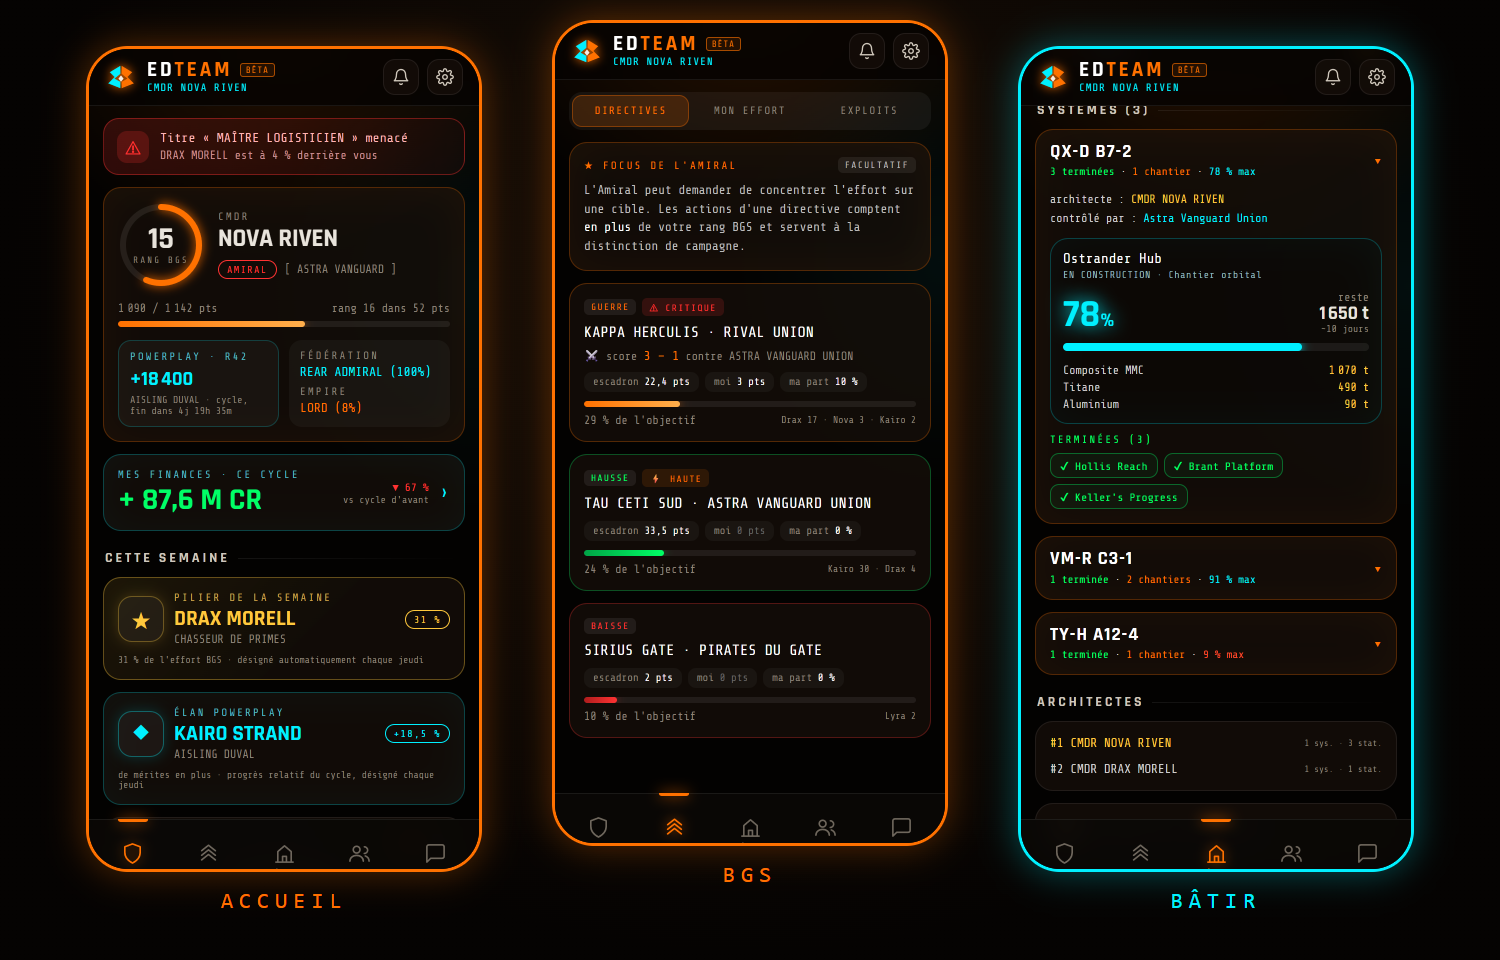
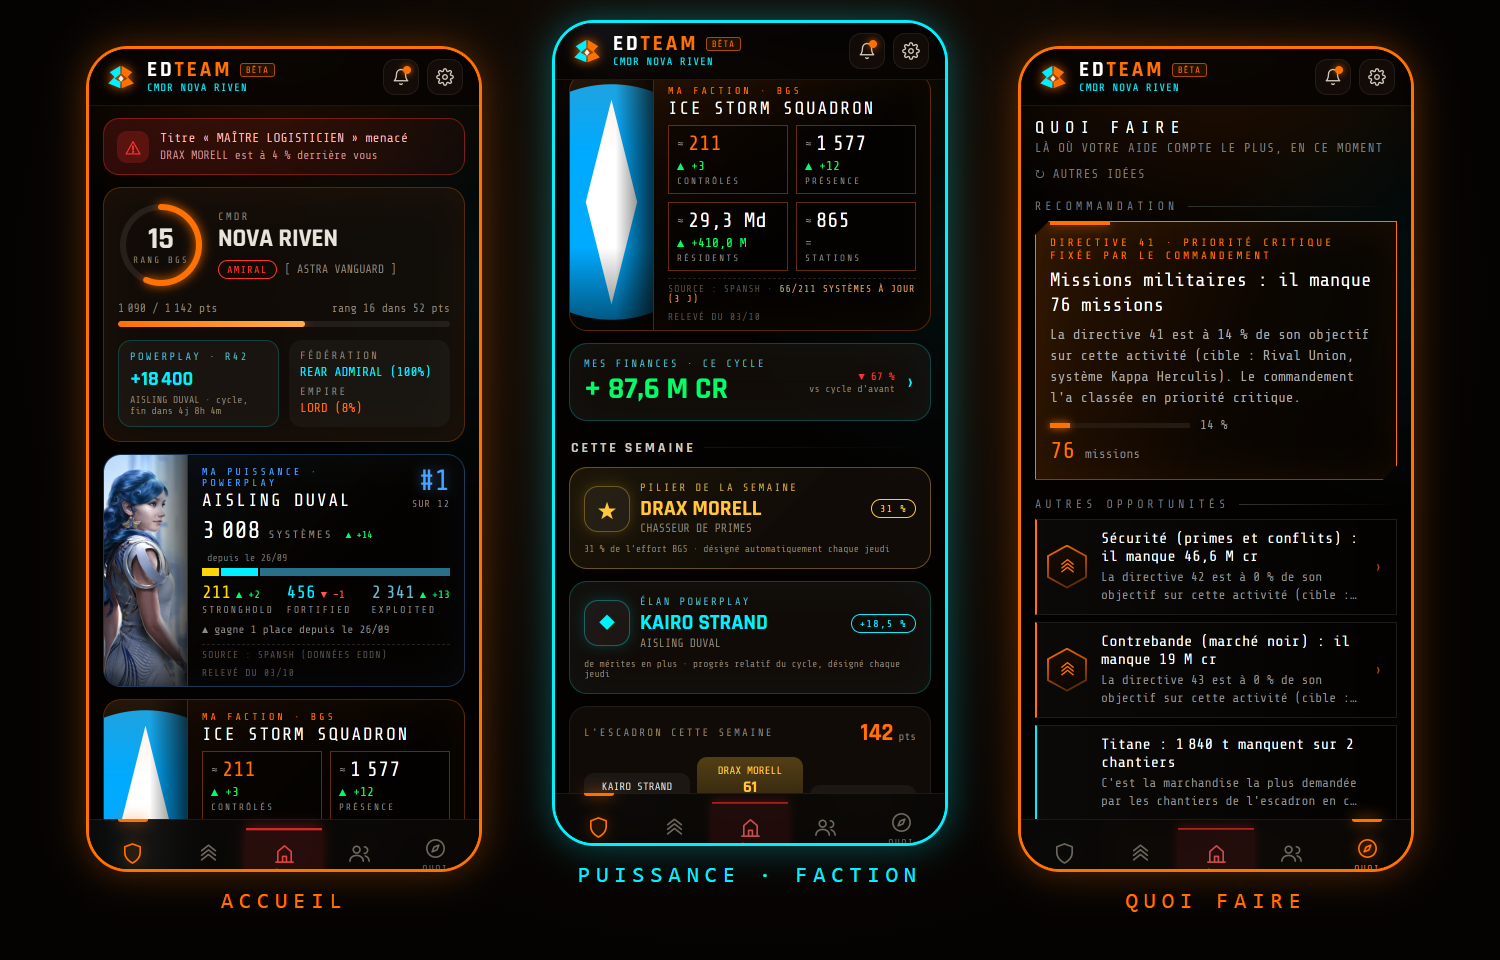
Mobile : Ma puissance et Ma faction a l'accueil (contour arrondi), bande Quoi faire retiree de l'accueil ; presentation : module Quoi faire, QG avec les 3 cartes, captures mises a jour

diff --git a/presentation.html b/presentation.html
@@ -426,6 +426,7 @@
             <div class="scene">
                 <div class="liste" id="liste">
                 <button class="module" data-p="commander" data-m="qg" data-for="solo squad officier"><span>Quartier général</span><span class="pour">POUR VOUS</span></button>
+                <button class="module" data-p="commander" data-m="qf" data-for="solo squad officier"><span>Quoi faire</span><span class="pour">POUR VOUS</span></button>
                 <button class="module" data-p="commander" data-m="bgs" data-for="squad officier"><span>BGS tactique</span><span class="pour">POUR VOUS</span></button>
                 <button class="module" data-p="commander" data-m="pp" data-for="solo squad officier"><span>Powerplay 2.0</span><span class="pour">POUR VOUS</span></button>
                 <button class="module" data-p="commander" data-m="diplo" data-for="squad officier"><span>Diplomatie & renseignement</span><span class="pour">POUR VOUS</span></button>
@@ -443,9 +444,14 @@
                 </div>
                 <div class="detail" id="detail">
                 <article class="panel" id="module-qg" data-p="commander" data-m="qg">
-                    <div class="ecran-d"><div class="cadre-d"><img class="on" data-i="0" src="images/qg.png" alt="Quartier général"></div></div>
-                    <span class="kick">// MODULE 01 : SUPERVISION</span><h3>VISION STRATÉGIQUE</h3><p>Votre <strong>Quartier Général</strong> résume votre carrière d'un coup d'œil : rangs Powerplay, BGS, Fédération et auxiliaires, avec leur progression. Le <strong>Pilier de la semaine</strong> et l'<strong>Élan Powerplay</strong> de l'escadron sont mis à l'honneur, et les <strong>chiffres clés</strong> (renseignement, points BGS cumulés, mérites Powerplay, colonisation) tiennent sur un seul écran.</p><p>Le <strong>Journal Tactique</strong> diffuse en direct les directives, les distinctions et le bilan hebdomadaire du réseau ; les actualités Galnet et EDNews de l'escadron sont à un clic. Tout ce dont un commandant a besoin, sur un terminal unique.</p>
+                    <div class="ecran-d"><div class="cadre-d"><img class="on" data-i="0" src="images/qg.png" alt="Quartier général (écran 1)"><img class="" data-i="1" src="images/puissance-faction.png" alt="Ma puissance, Ma faction et Quoi faire (écran 2)" loading="lazy"></div><div class="vignettes"><button class="on" data-i="0" style="background-image:url('images/qg.png')" aria-label="Écran 1"></button><button class="" data-i="1" style="background-image:url('images/puissance-faction.png')" aria-label="Écran 2"></button></div></div>
+                    <span class="kick">// MODULE 01 : SUPERVISION</span><h3>VISION STRATÉGIQUE</h3><p>Votre <strong>Quartier Général</strong> résume votre carrière d'un coup d'œil : rangs Powerplay, BGS, Fédération et auxiliaires dans l'en-tête (un clic ouvre le détail, sur toutes les pages), le <strong>nom de votre escadron</strong> et vos grades. En tête de page, trois cartes : <strong>Ma puissance</strong> (le portrait de votre puissance, son classement parmi les douze et la répartition de ses systèmes), <strong>Ma faction</strong> (le logo de votre escadron, déposé par l'Amiral, et les chiffres de votre faction) et <strong>Quoi faire</strong>.</p><p>Le <strong>Pilier de la semaine</strong> et l'<strong>Élan Powerplay</strong> sont mis à l'honneur, les <strong>chiffres clés</strong> tiennent sur un seul écran, et le <strong>Journal Tactique</strong> diffuse en direct les directives, les distinctions et le bilan du réseau. Chaque jeudi, une fenêtre vous présente la <strong>nouvelle édition d'EDNews</strong> de votre escadron.</p><p class="note-sobre" style="font-size:.85em;color:#8a9;">Les chiffres de puissance et de faction viennent de la base communautaire Spansh, relevée chaque jour : ils peuvent avoir quelques jours de retard sur le jeu.</p>
                 </article>
+                <article class="panel" id="module-qf" data-p="commander" data-m="qf">
+                    <div class="ecran-d"><div class="cadre-d"><img class="on" data-i="0" src="images/quoi-faire.png" alt="Quoi faire : recommandations" loading="lazy"></div></div>
+                    <span class="kick">// MODULE 11 : QUOI FAIRE</span><h3>VOUS NE SAVEZ PAS QUOI FAIRE EN VOUS CONNECTANT ?</h3><p>Une <strong>recommandation</strong> vous attend à l'ouverture : l'activité où votre aide compte le plus en ce moment, d'après les directives de votre escadron (à priorité égale, celle qui est le plus en retard), les chantiers de colonisation, votre rang BGS et vos mérites Powerplay.</p><p>Chaque idée mène directement au bon écran. Rien n'est obligatoire, et les idées s'adaptent à <strong>votre style de jeu</strong>, que vous pouvez changer. Disponible aussi sur le compagnon mobile.</p>
+                </article>
+
                 <article class="panel" id="module-bgs" data-p="commander" data-m="bgs">
                     <div class="ecran-d"><div class="cadre-d"><img class="on" data-i="0" src="images/ordres.png" alt="BGS tactique" loading="lazy"></div></div>
                     <span class="kick">// MODULE 02 : BGS TACTIQUE</span><h3>FRAPPEZ OÙ ÇA FAIT MAL</h3><p>Ne demandez plus sur le Discord <em>« Où est-ce qu'on se bat aujourd'hui ? »</em>. Tout tient sur <strong>une seule page</strong> : votre engagement (rang, points, prochain rang), votre progression sur les 8 dernières semaines, la semaine de l'escadron avec son podium, et le mur des spécialistes.</p><p>Le <strong>Focus de l'Amiral</strong> liste les directives (Guerre, Élection, Hausse, Baisse) avec leur avancement, votre part d'impact et le score du conflit en direct. Il est facultatif : sans directive, chaque effort compte déjà pour votre rang BGS. Le <strong>journal des exploits</strong> détaille chaque action.</p>
@@ -1100,7 +1106,7 @@
     /* ---------- Piliers, modules, profils (les textes sont dans le HTML : ce code ne fait qu'afficher / masquer) ---------- */
     (function () {
         const PILIERS = [{"id":"commander","c":"#00F0FF","g":"rgba(0,240,255,.12)"},{"id":"construire","c":"#FF7100","g":"rgba(255,113,0,.12)"},{"id":"progresser","c":"#FFD700","g":"rgba(255,215,0,.10)"},{"id":"connecte","c":"#00FF66","g":"rgba(0,255,102,.10)"}];
-        const MODULES = [{"id":"qg","p":"commander","pour":["solo","squad","officier"]},{"id":"bgs","p":"commander","pour":["squad","officier"]},{"id":"pp","p":"commander","pour":["solo","squad","officier"]},{"id":"diplo","p":"commander","pour":["squad","officier"]},{"id":"esc","p":"commander","pour":["squad","officier"]},{"id":"colo","p":"construire","pour":["solo","squad","officier"]},{"id":"budget","p":"construire","pour":["solo","squad","officier"]},{"id":"plaques","p":"progresser","pour":["squad","officier"]},{"id":"spe","p":"progresser","pour":["squad","officier"]},{"id":"pilier","p":"progresser","pour":["squad","officier"]},{"id":"elan","p":"progresser","pour":["squad","officier"]},{"id":"force","p":"progresser","pour":["squad","officier"]},{"id":"rang","p":"progresser","pour":["squad","officier"]},{"id":"mobile","p":"connecte","pour":["solo","squad","officier"]},{"id":"covas","p":"connecte","pour":["squad","officier"]}];
+        const MODULES = [{"id":"qg","p":"commander","pour":["solo","squad","officier"]},{"id":"qf","p":"commander","pour":["solo","squad","officier"]},{"id":"bgs","p":"commander","pour":["squad","officier"]},{"id":"pp","p":"commander","pour":["solo","squad","officier"]},{"id":"diplo","p":"commander","pour":["squad","officier"]},{"id":"esc","p":"commander","pour":["squad","officier"]},{"id":"colo","p":"construire","pour":["solo","squad","officier"]},{"id":"budget","p":"construire","pour":["solo","squad","officier"]},{"id":"plaques","p":"progresser","pour":["squad","officier"]},{"id":"spe","p":"progresser","pour":["squad","officier"]},{"id":"pilier","p":"progresser","pour":["squad","officier"]},{"id":"elan","p":"progresser","pour":["squad","officier"]},{"id":"force","p":"progresser","pour":["squad","officier"]},{"id":"rang","p":"progresser","pour":["squad","officier"]},{"id":"mobile","p":"connecte","pour":["solo","squad","officier"]},{"id":"covas","p":"connecte","pour":["squad","officier"]}];
         let pilier = 'commander', mod = 'qg', vue = 'tout';
         const $ = id => document.getElementById(id);
         const visible = m => vue === 'tout' || m.pour.indexOf(vue) >= 0;

diff --git a/qgsuivi.js b/qgsuivi.js
@@ -1,7 +1,7 @@
 // QG : cartes « MA PUISSANCE » (Powerplay) et « MA FACTION » (BGS). Une seule lecture serveur : rpc('ma_puissance_et_faction') (script SQL 45),
 // mise en memoire 30 minutes (les donnees ne changent qu'une fois par jour : releve quotidien de Spansh, cote serveur).
 // Limites assumees : pas de points par puissance (aucune source publique), pas de systemes « contestes » ; variations seulement apres ~7 jours d'historique.
-// Les emblemes sont des monogrammes crees pour le site : aucune image de Frontier.
+// Les monogrammes (repli sans portrait) sont crees pour le site ; les portraits des Powers sont des images de Frontier (mention au pied de page).
 (function () {
     'use strict';
     const S = window.QGSuivi = {};
@@ -68,6 +68,8 @@
 #banner-gazette:hover{border-color:#00F0FF!important;background:linear-gradient(135deg,rgba(0,240,255,.34),rgba(0,0,0,.4))!important;box-shadow:0 0 14px rgba(0,240,255,.45)}
 #banner-gazette:active{background:linear-gradient(135deg,rgba(0,240,255,.5),rgba(0,0,0,.35))!important}
 .qs-ap{font-size:.6em;color:#8a8a8a;margin-right:4px;vertical-align:.25em}
+#m-suivi .qs-carte{clip-path:none;border-radius:18px;overflow:hidden;border-color:color-mix(in srgb,var(--c) 30%,transparent);box-shadow:inset 0 0 40px color-mix(in srgb,var(--c) 5%,transparent)}#m-suivi .qs-carte:before,#m-suivi .qs-carte:after{display:none}#m-suivi .qs-portrait{border-right-color:color-mix(in srgb,var(--c) 30%,transparent)}
+.qs-fm .qs-tuiles{grid-template-columns:repeat(2,minmax(0,1fr))}.qs-fm .qs-src{margin-top:0}.qs-fm .qs-src span{white-space:normal!important}
 .qs-t.cle .v{color:var(--c)}
 .qs-t .qs-v{display:block;margin:3px 0 0}
 .qs-carte.qs-pf{flex-direction:row;gap:0;padding:0;align-items:stretch}
@@ -146,6 +148,16 @@
         return '<span style="white-space:nowrap">SOURCE : SPANSH' + frais + '</span><span style="white-space:nowrap">RELEVÉ DU ' + esc(jj(f.releve_le)) + '</span>';
     }
 
+    // Carte « Ma faction » du compagnon mobile : logo en colonne a gauche (comme le portrait), nom, 4 tuiles, source
+    function carteFactionMobile(f, logo) {
+        const url = logo && logo.chemin ? logoUrl(logo) : '';
+        const hex = url ? '' : '<div class="qs-hx">' + ICONE_FACTION + '</div>';
+        const corps = '<div class="qs-cap">' + hex + '<div style="min-width:0;"><div class="qs-k">MA FACTION · BGS</div><div class="qs-n">' + esc(String(f.nom).toUpperCase()) + '</div></div></div>'
+            + statsFaction(f) + '<div class="qs-src">' + ligneSourceFaction(f) + '</div>';
+        if (!url) return '<div class="qs-carte qs-fm" style="--c:#FF7100;">' + corps + '</div>';
+        return '<div class="qs-carte qs-pf qs-fm" style="--c:#FF7100;"><div class="qs-portrait"><img src="' + esc(url) + '" alt="Logo de l’escadron" loading="lazy" style="object-position:center;"></div><div class="qs-corps">' + corps + '</div></div>';
+    }
+
     async function charger() {
         const now = Date.now();
         try { const s = JSON.parse(sessionStorage.getItem('edteam_suivi_cache') || 'null'); if (s && now - s.ts < DUREE && s.d && ('peut_logo' in s.d)) return s.d; } catch (e) {}
@@ -219,6 +231,21 @@
                 elF.style.display = membre ? 'grid' : 'none';
             }
         } catch (e) { console.error('Suivi puissance / faction :', e); }
+    };
+    // Compagnon mobile : les deux cartes empilees (memes donnees, meme mise en memoire 30 min que le PC)
+    S.monterMobile = async function (idZone) {
+        injecterStyle();
+        const el = document.getElementById(idZone);
+        if (!el) return;
+        try {
+            const d = await charger();
+            const moi = (typeof profilCommandant !== 'undefined' && profilCommandant) ? profilCommandant : {};
+            const membre = !!(d && d.acces && (d.faction || (moi.escadron_id && String(moi.escadron_id).toUpperCase() !== 'INDEPENDANT')));
+            let h = '';
+            if (d && d.puissance) h += cartePuissance(d.puissance);
+            if (membre && d && d.faction) h += carteFactionMobile(d.faction, d.logo);
+            el.innerHTML = h; el.style.display = h ? 'flex' : 'none';
+        } catch (e) { console.error('Suivi puissance / faction (mobile) :', e); }
     };
     injecterStyle();
 })();

diff --git a/mobile.html b/mobile.html
@@ -17,6 +17,7 @@
     <script src="https://cdn.jsdelivr.net/npm/@supabase/supabase-js@2"></script>
     <script src="shared-utils.js?v=3"></script>
     <script src="quoifaire.js?v=5"></script>
+    <script src="qgsuivi.js?v=35"></script>
     <script src="son.js?v=1"></script>
     <script src="colonisation-types.js?v=1"></script>
     <script src="medailles.js?v=3"></script>
@@ -521,9 +522,6 @@
             <!-- ========================================== -->
             <div id="tab-qg" style="display: flex; flex-direction: column; gap: 12px;">
 
-                <!-- QUOI FAIRE : bande d'entree (recommandation), remplie par quoifaire.js -->
-                <div id="qf-m-bande" style="display: none;"></div>
-
                 <!-- Alertes (titre menace...) : remplies par chargerAccueilMobile -->
                 <div id="x-alertes" style="display: flex; flex-direction: column; gap: 10px;"></div>
 
@@ -558,6 +556,9 @@
                         </div>
                     </div>
                 </div>
+
+                <!-- MA PUISSANCE (Powerplay) et MA FACTION (BGS) : releve quotidien Spansh, rempli par qgsuivi.js -->
+                <div id="m-suivi" style="display: none; flex-direction: column; gap: 12px;"></div>
 
                 <!-- MES FINANCES : resultat net du cycle (le detail s'ouvre dans une feuille) -->
                 <div class="xc b click" id="x-fin" onclick="ouvrirBudgetMobile()">
@@ -1234,7 +1235,7 @@
             initNouveautesMobile();
             chargerGazetteListMobile();
             chargerRegistreTactiqueMobile();
-            if (window.QF) QF.monterBande('qf-m-bande');
+            if (window.QGSuivi) QGSuivi.monterMobile('m-suivi');
             verifierNouvellesNotesMobile();
             verifierNouvellesLivraisonsMobile();
             setTimeout(xMajCloche, 3000); setTimeout(xMajCloche, 9000); // <--- NOUVELLE LIGNE AJOUTÉE ICI

diff --git a/nouveautes-data.js b/nouveautes-data.js
@@ -7,7 +7,7 @@ window.EDTEAM_NOUVEAUTES = [
     {
         id: '2026-10-logo-escadron', date: '2026-10-04T08:00:00Z', type: 'NOUVEAU',
         titre: 'Logo d’escadron et nouvelle édition d’EDNews en popup',
-        texte: 'L’Amiral de chaque escadron peut désormais déposer le logo de son escadron (bouton « + LOGO » au pied de la carte « Ma faction »). L’image est redimensionnée automatiquement et s’affiche pour tous les membres. Chaque semaine, une popup vous présente la nouvelle édition d’EDNews dès l’ouverture du QG (« Lire l’édition » ou « Plus tard »), tant que vous ne l’avez pas lue. Dans l’en-tête, le rang BGS passe aussi en pastille au-dessus du cadre, comme le rang Powerplay, et les cartes du QG retrouvent leurs coins coupés.',
+        texte: 'L’Amiral de chaque escadron peut désormais déposer le logo de son escadron (bouton « + LOGO » au pied de la carte « Ma faction »). L’image est redimensionnée automatiquement et s’affiche pour tous les membres. Le compagnon mobile affiche désormais aussi « Ma puissance » et « Ma faction » sur son accueil. Chaque semaine, une popup vous présente la nouvelle édition d’EDNews dès l’ouverture du QG (« Lire l’édition » ou « Plus tard »), tant que vous ne l’avez pas lue. Dans l’en-tête, le rang BGS passe aussi en pastille au-dessus du cadre, comme le rang Powerplay, et les cartes du QG retrouvent leurs coins coupés.',
         important: false
     },
     {

diff --git a/index.html b/index.html
@@ -16,7 +16,7 @@
     <script src="https://cdn.jsdelivr.net/npm/@supabase/supabase-js@2"></script>
     <script src="shared-utils.js?v=3"></script>
     <script src="quoifaire.js?v=5"></script>
-    <script src="qgsuivi.js?v=33"></script>
+    <script src="qgsuivi.js?v=35"></script>
     <script src="son.js?v=1"></script>
     <script src="navigation.js?v=14"></script>
 
